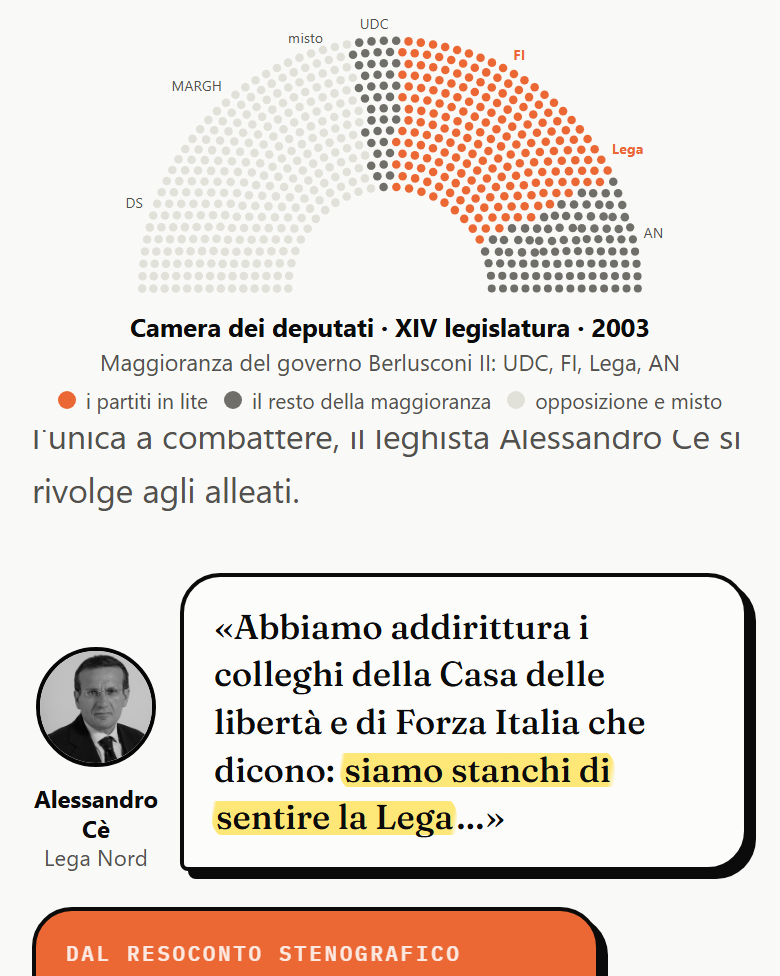
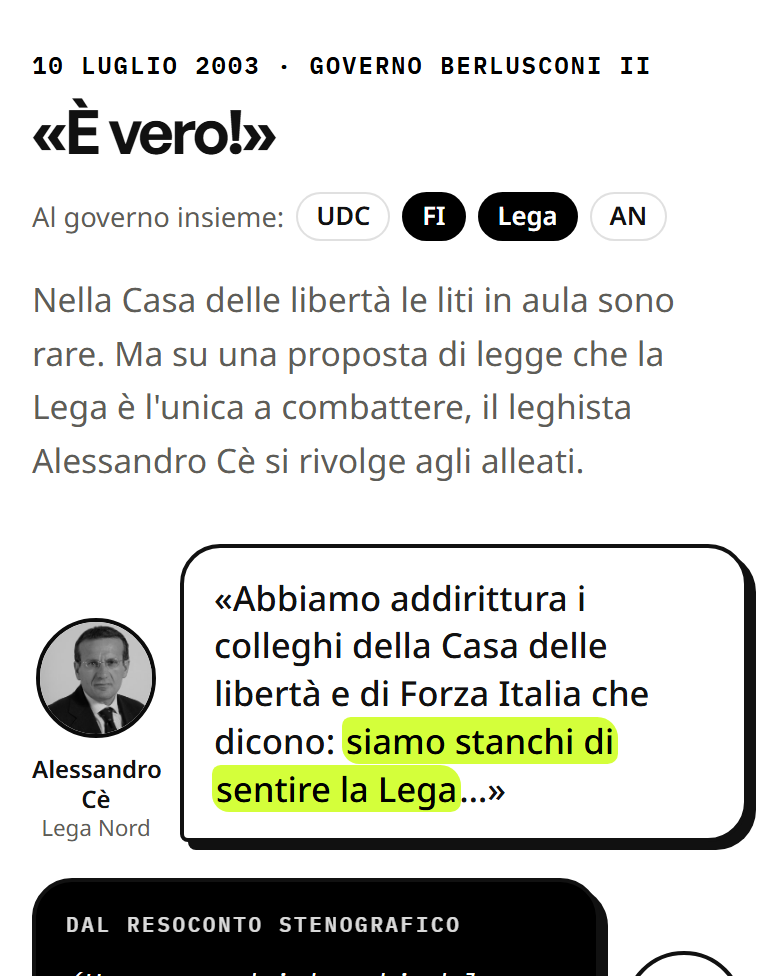
articoli nello stile comune (fondo bianco, evidenziatore lime, General Sans/Noto Sans/IBM Plex Mono), nuove copertine e anteprime; nuova descrizione e about

diff --git a/public/prova-a-fare-il-caso/index.html b/public/prova-a-fare-il-caso/index.html
@@ -244,7 +244,7 @@
   .alea-logo:hover { color: #d4ff3a; }
   .alea-firma { font-family: "IBM Plex Mono", ui-monospace, monospace; font-size: .85rem; letter-spacing: .02em; color: #898781; margin: -12px 0 24px; }
   .alea-firma a { color: inherit; text-decoration: underline; text-underline-offset: 3px; }
-  .alea-firma a:hover { color: #eb6834; }
+  .alea-firma a:hover { color: #000; background: #d4ff3a; }
 
   .alea-fondo { background: #000; color: #f2f0ea; font-family: "General Sans", system-ui, sans-serif; padding: 0 16px 64px; }
   .alea-fondo * { box-sizing: border-box; }
@@ -274,6 +274,21 @@
   .alea-col a { font-family: "IBM Plex Mono", ui-monospace, monospace; font-size: .78rem; letter-spacing: .06em; text-transform: uppercase; }
   .alea-col a:hover { color: #d4ff3a; }
   @media (max-width: 860px) { .alea-nl, .alea-piede, .alea-altri { grid-template-columns: 1fr; } }
+</style>
+<link href="https://fonts.googleapis.com/css2?family=Noto+Sans:ital,wght@0,400;0,500;0,600;1,400&display=swap" rel="stylesheet">
+<style id="alea-tema">
+  :root, :root:not([data-theme="light"]), :root[data-theme] { color-scheme: light !important; --fondo: #ffffff !important; --testo: #111111 !important; --testo-2: #5e5d58 !important;
+    --linea: #e0e0db !important; --fondo-fonti: #f2f2ef !important; --accento: #111111 !important; --macchina: #b4b4af !important;
+    --macchina-soft: #b4b4af40 !important; --tu: #000000 !important; --tu-testo: #111111 !important;
+    --font: "Noto Sans", sans-serif !important; }
+  body { background: #ffffff !important; }
+  h1 { font-family: "General Sans", sans-serif !important; font-weight: 600 !important; letter-spacing: -.04em !important; text-transform: none !important; }
+  .cifre, .griglia, .cella, table, .stato, .barra-titolo, kbd, .asse text, .segno text, .leg { font-family: "IBM Plex Mono", monospace !important; }
+  .tu { background: #d4ff3a; color: #000 !important; padding: 0 .15em; }
+  td.tu { background: none; color: #111111 !important; }
+  .confronto .cella.serie-tu { color: #fff !important; }
+  .g-caso .cella { color: #5e5d58 !important; }                                  /* le lettere della moneta vera: --macchina qui è troppo chiaro */
+  .confronto .cella.serie-caso { background: #5e5d58 !important; color: #fff !important; }
 </style>
 </head>
 
@@ -724,7 +739,7 @@ function mostraRisultati(scorri = true) {
     `è quasi sempre di 5 lanci o più. ${es ? "Quella dell'esempio" : "La tua"} è di <span class="tu">${tu.serie}</span>; ` +
     `una moneta vera si ferma a ${tu.serie} o meno ${quanto(quota(R.serie, (v) => v <= tu.serie))}. ` +
     `Il grafico mostra quanto spesso capita ogni lunghezza in ${fmt(SIM)} sequenze vere simulate; ` +
-    `${es ? "la linea rossa è l'esempio" : "la linea rossa sei tu"}.`;
+    `${es ? "la linea nera è l'esempio" : "la linea nera sei tu"}.`;
   istogramma(document.getElementById("ch-serie"), {
     valori: R.serie, dominio: [2, 16], tuo: tu.serie, etichettaX: "serie più lunga (lanci)", etichettaTu: chi,
     tip: (d) => `serie più lunga di <b>${d.x}</b>: ${pct(d.p, 1)} delle sequenze vere`,
@@ -735,7 +750,7 @@ function mostraRisultati(scorri = true) {
     `Il secondo indizio sono i cambi. Con una moneta vera, dopo una testa viene una croce una volta su due: ` +
     `in cento lanci ci si aspettano circa 50 cambi. Chi inventa tende ad alternare di più, per «compensare» ` +
     `le serie che evita. ${es ? "L'esempio cambia" : "Tu hai cambiato"} <span class="tu">${tu.cambi} volte</span>: ` +
-    `la linea rossa mostra dove ${es ? "cade" : "cadi"}.`;
+    `la linea nera mostra dove ${es ? "cade" : "cadi"}.`;
   istogramma(document.getElementById("ch-cambi"), {
     valori: R.cam, dominio: [25, 75], tuo: tu.cambi, etichettaX: "numero di cambi", etichettaTu: chi,
     tip: (d) => `<b>${d.x}</b> cambi: ${pct(d.p, 1)} delle sequenze vere`,
@@ -821,7 +836,7 @@ function leggiSoltanto() {
    Parametri:
      valori     i risultati delle sequenze simulate (es. 20.000 serie più lunghe)
      dominio    [minimo, massimo] dell'asse orizzontale
-     tuo        il valore del lettore, segnato con la linea rossa
+     tuo        il valore del lettore, segnato con la linea nera
      etichettaX il nome dell'asse orizzontale
      etichettaTu come chiamare il valore segnato: "tu" oppure "esempio"
      tip        funzione che scrive il testo del tooltip per una barra
@@ -1046,7 +1061,7 @@ disegnaInput();   // primo disegno della griglia vuota
       </form>
     </div>
     <footer class="alea-piede">
-      <div><h4>about</h4><p>àlea è un progetto di data e visual journalism ideato da <a href="https://www.davidruffini.com" target="_blank" rel="noopener">David Ruffini</a> per raccontare storie su cultura, società, politica, scienza e molto altro.</p></div>
+      <div><h4>about</h4><p>àlea è un progetto di data e visual journalism ideato da <a href="https://www.davidruffini.com" target="_blank" rel="noopener">David Ruffini</a> per raccontare storie su probabilità, società, cultura e molto altro.</p></div>
       <div class="alea-col"><h4>contatti</h4><a href="mailto:ciao@alea.news">ciao@alea.news</a></div>
       
     </footer>

diff --git a/public/litigi-tra-alleati/index.html b/public/litigi-tra-alleati/index.html
@@ -218,7 +218,7 @@
   .alea-logo:hover { color: #d4ff3a; }
   .alea-firma { font-family: "IBM Plex Mono", ui-monospace, monospace; font-size: .85rem; letter-spacing: .02em; color: #898781; margin: -12px 0 24px; }
   .alea-firma a { color: inherit; text-decoration: underline; text-underline-offset: 3px; }
-  .alea-firma a:hover { color: #eb6834; }
+  .alea-firma a:hover { color: #000; background: #d4ff3a; }
 
   .alea-fondo { background: #000; color: #f2f0ea; font-family: "General Sans", system-ui, sans-serif; padding: 0 16px 64px; }
   .alea-fondo * { box-sizing: border-box; }
@@ -248,6 +248,18 @@
   .alea-col a { font-family: "IBM Plex Mono", ui-monospace, monospace; font-size: .78rem; letter-spacing: .06em; text-transform: uppercase; }
   .alea-col a:hover { color: #d4ff3a; }
   @media (max-width: 860px) { .alea-nl, .alea-piede, .alea-altri { grid-template-columns: 1fr; } }
+</style>
+<link href="https://fonts.googleapis.com/css2?family=Noto+Sans:ital,wght@0,400;0,500;0,600;1,400&display=swap" rel="stylesheet">
+<style id="alea-tema">
+  :root, :root:not([data-theme="light"]), :root[data-theme] { color-scheme: light !important; --surface: #ffffff !important; --page: #ffffff !important; --ink: #111111 !important;
+    --ink-2: #5e5d58 !important; --grid: #e0e0db !important; --band-a: #f2f2ef !important; --band-b: #ffffff !important;
+    --border: rgba(0,0,0,.12) !important; --ost: #000000 !important; --ost-soft: #00000066 !important;
+    --magg: #b4b4af !important; --opp: #e8e8e4 !important; }
+  body { background: #ffffff !important; font-family: "Noto Sans", sans-serif !important; }
+  h1, .scena h2, .metodo h2 { font-family: "General Sans", sans-serif !important; font-weight: 600 !important; letter-spacing: -.04em !important; }
+  .fumetto q { font-family: "Noto Sans", sans-serif !important; font-weight: 500 !important; }
+  .chip.lite, .reazione .fumetto { color: #fff !important; }
+  mark.pennarello { background: #d4ff3a !important; color: #000 !important; }
 </style>
 </head>
 <body>
@@ -859,7 +871,7 @@ else attiva(document.querySelector(".passo, .scena"));
       </form>
     </div>
     <footer class="alea-piede">
-      <div><h4>about</h4><p>àlea è un progetto di data e visual journalism ideato da <a href="https://www.davidruffini.com" target="_blank" rel="noopener">David Ruffini</a> per raccontare storie su cultura, società, politica, scienza e molto altro.</p></div>
+      <div><h4>about</h4><p>àlea è un progetto di data e visual journalism ideato da <a href="https://www.davidruffini.com" target="_blank" rel="noopener">David Ruffini</a> per raccontare storie su probabilità, società, cultura e molto altro.</p></div>
       <div class="alea-col"><h4>contatti</h4><a href="mailto:ciao@alea.news">ciao@alea.news</a></div>
       
     </footer>

diff --git a/src/config.js b/src/config.js
@@ -6,10 +6,10 @@ export const SITO = {
   indirizzo: "https://alea.news",
   // titolo e descrizione della home nei risultati di ricerca e nelle anteprime
   titolo: "Àlea - Raccontare con i dati",
-  descrizione: "Àlea raccoglie progetti di data e visual journalism su cultura, società, politica, scienza e molto altro.",
+  descrizione: "Àlea raccoglie progetti di data e visual journalism su probabilità, società, cultura e molto altro.",
   autore: "David Ruffini",
   // testo dell'about (home e fondo degli articoli): {autore} diventa il nome con il link a sitoAutore
-  about: "àlea è un progetto di data e visual journalism ideato da {autore} per raccontare storie su cultura, società, politica, scienza e molto altro.",
+  about: "àlea è un progetto di data e visual journalism ideato da {autore} per raccontare storie su probabilità, società, cultura e molto altro.",
   sitoAutore: "https://www.davidruffini.com",
   email: "ciao@alea.news",
   // indirizzo della newsletter su Substack (es. "https://nome.substack.com"); vuoto finché non è deciso

diff --git a/scripts/og/litigi-tra-alleati.html b/scripts/og/litigi-tra-alleati.html
@@ -8,7 +8,7 @@
 <style>
   html, body { margin: 0; width: 1200px; height: 630px; overflow: hidden; background: #000; font-family: "General Sans", sans-serif; color: #f2f0ea; }
   .cop { position: absolute; left: 56px; top: 56px; width: 440px; height: 550px; box-sizing: border-box;
-         box-shadow: 22px 22px 0 #ff6b2c; background: #f9f9f7 url(../../public/img/copertine/litigi.png) top / cover; }
+         box-shadow: 22px 22px 0 #d4ff3a; background: #fff url(../../public/img/copertine/litigi.png) top / cover; }
   .num { position: absolute; left: 46px; top: 520px; background: #d4ff3a; color: #000; font-weight: 700; font-size: 64px; letter-spacing: -0.06em; line-height: 1; padding: 4px 16px 0 12px; }
   .destra { position: absolute; left: 571px; right: 56px; top: 56px; bottom: 56px; display: flex; flex-direction: column; justify-content: space-between; }
   .tit { font-size: 74px; line-height: .98; letter-spacing: -0.04em; }

diff --git a/scripts/og/prova-a-fare-il-caso.html b/scripts/og/prova-a-fare-il-caso.html
@@ -8,7 +8,7 @@
 <style>
   html, body { margin: 0; width: 1200px; height: 630px; overflow: hidden; background: #000; font-family: "General Sans", sans-serif; color: #f2f0ea; }
   .cop { position: absolute; left: 56px; top: 56px; width: 440px; height: 550px; box-sizing: border-box;
-         box-shadow: 22px 22px 0 #ff3b2f; background: #f9f9f7 url(../../public/img/copertine/moneta.png) top / cover; }
+         box-shadow: 22px 22px 0 #d4ff3a; background: #fff url(../../public/img/copertine/moneta.png) top / cover; }
   .num { position: absolute; left: 46px; top: 520px; background: #d4ff3a; color: #000; font-weight: 700; font-size: 64px; letter-spacing: -0.06em; line-height: 1; padding: 4px 16px 0 12px; }
   .destra { position: absolute; left: 571px; right: 56px; top: 56px; bottom: 56px; display: flex; flex-direction: column; justify-content: space-between; }
   .tit { font-size: 74px; line-height: .98; letter-spacing: -0.04em; }

diff --git a/src/data/articoli.js b/src/data/articoli.js
@@ -12,7 +12,7 @@ export const ARTICOLI = [
     sommario: "Inventa cento lanci di moneta: un programma che non sa niente di te proverà a prevederli. Poi li confrontiamo con una moneta vera.",
     url: "/prova-a-fare-il-caso/",
     copertina: "moneta",
-    colore: "#ff3b2f",
+    colore: "#d4ff3a",
   },
   {
     numero: 1,
@@ -22,7 +22,7 @@ export const ARTICOLI = [
     sommario: "Governano insieme e votano insieme la fiducia, ma in aula si contestano: 1.047 volte, alla Camera, dal 1948 al 2022.",
     url: "/litigi-tra-alleati/",
     copertina: "litigi",
-    colore: "#ff6b2c",
+    colore: "#d4ff3a",
   },
   // segnaposto per vedere la griglia mentre si lavora
   { bozza: true, tema: "statistica", titolo: "Il tuo numero «a caso» non è casuale", sommario: "Perché tutti scelgono il 7.", copertina: { colore: "#b9a5ff", testo: "7" } },

diff --git a/scripts/copertine/telefono.html b/scripts/copertine/telefono.html
@@ -1,0 +1,8 @@
+<!doctype html>
+<!-- "Telefono" senza server per le schermate delle copertine: carica ?p= (indirizzo file:// di una pagina in public/)
+     in un riquadro largo 390px e alto ?h=. Edge headless non scende sotto ~500px di finestra, per questo l'iframe:
+     la schermata (finestra 500px, densità 2) ha il telefono a sinistra, come vuole ritaglio.html.
+     Edge va lanciato con --allow-file-access-from-files. -->
+<style>html,body{margin:0;background:#fff;overflow:hidden}iframe{display:block;width:390px;border:0}</style>
+<iframe id="f"></iframe>
+<script>const q = new URLSearchParams(location.search), f = document.getElementById("f"); f.style.height = (q.get("h") || 844) + "px"; f.src = q.get("p");</script>
